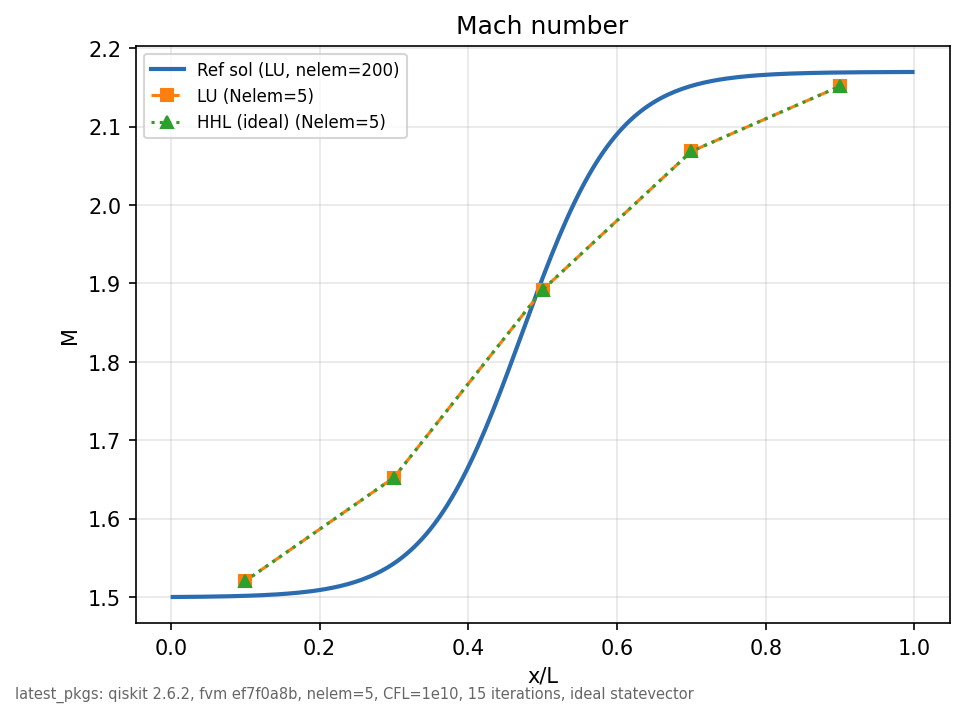
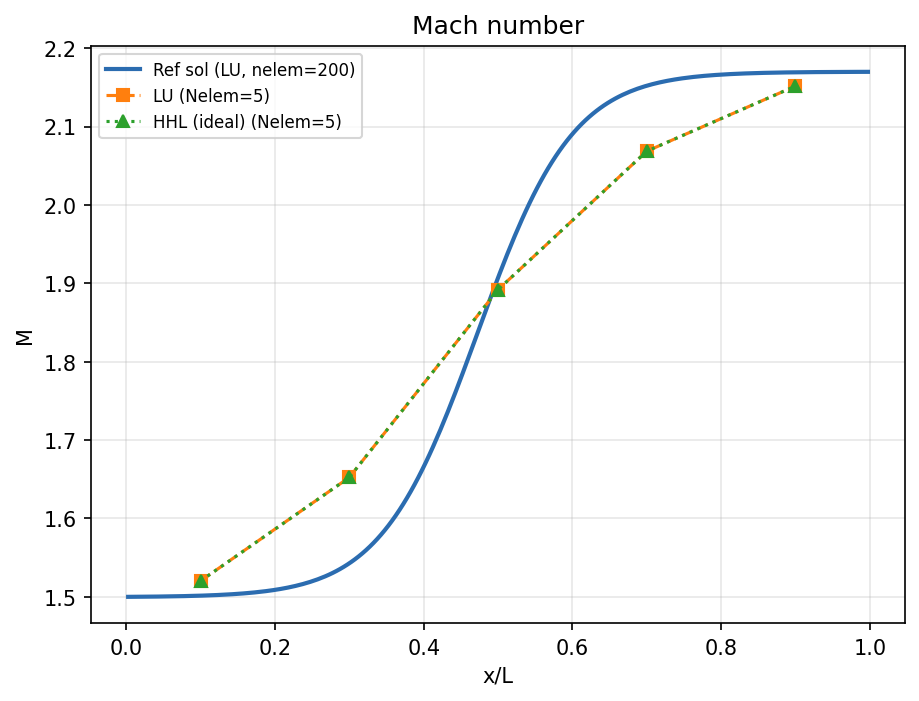
getting rid of figure footnote

diff --git a/results/fvm_euler_1d_solver/nov2025-rerun/analysis/paper_figures_latest_pkgs/make_paper_figures.py b/results/fvm_euler_1d_solver/nov2025-rerun/analysis/paper_figures_latest_pkgs/make_paper_figures.py
@@ -53,8 +53,8 @@ color = {s: CMAP(i / (len(SHOTS) - 1)) for i, s in enumerate(SHOTS)}
 PRIM = ['rho', 'u', 'p']
 
 
-def save(fig, name, note=NOTE):
-    fig.text(0.01, 0.005, note, fontsize=7, color='#666666', ha='left', va='bottom')
+def save(fig, name, note=None):
+    """Save without an in-figure footnote; `note` is kept for call-site documentation only (details are in README.md)."""
     fig.savefig(os.path.join(HERE, name), dpi=150, bbox_inches='tight')
     plt.close(fig)
 
